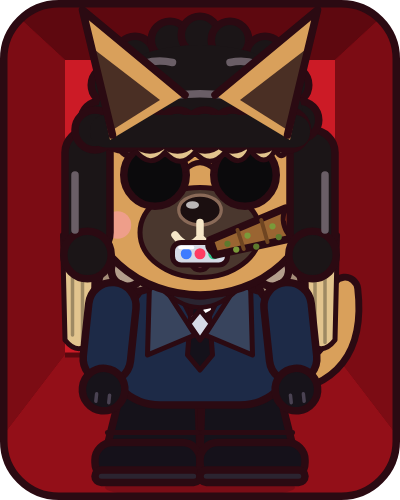
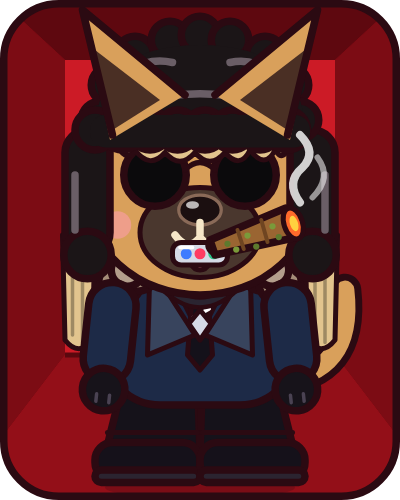
Виджет: крупный пёс и мелкие задачи, загрузчик; косяк поверх шапки

Changed region(s): [[0.69, 0.27, 0.84, 0.48]]

diff --git a/widget/road-to-prime-widget.js b/widget/road-to-prime-widget.js
@@ -1,9 +1,5 @@
-// Road to Prime: виджет для приложения Scriptable (iPhone, бесплатное).
-// Как поставить:
-// 1. В Scriptable нажми «+», вставь весь этот текст, назови скрипт «Road to Prime».
-// 2. Запусти его кнопкой ▶ один раз: он спросит токен GitHub (тот же, что в приложении, право gist).
-// 3. На экране «Домой» долго нажми на пустое место, «+», Scriptable, выбери размер, затем в настройках виджета выбери этот скрипт.
-// Данные читаются из твоего закрытого Gist road-to-prime.json, ничего не записывается.
+// RTP-WIDGET v2: основной код виджета Road to Prime. Его подтягивает загрузчик loader.js.
+// Крупный пёс на фоне, задачи мелким шрифтом. Данные читаются из закрытого Gist road-to-prime.json, ничего не записывается.
 
 const APP_URL = 'https://woicetarget.github.io/road-to-prime/';
 const GIST_FILE = 'road-to-prime.json';
@@ -28,7 +24,7 @@ function summarize(data, now) {
 
 const fm = FileManager.local();
 const cachePath = fm.joinPath(fm.documentsDirectory(), 'rtp_cache.json');
-const dogPath = fm.joinPath(fm.documentsDirectory(), 'rtp_dog.png');
+const dogPath = fm.joinPath(fm.documentsDirectory(), 'rtp_dog_close.png');
 
 async function askToken() {
   const a = new Alert();
@@ -77,7 +73,7 @@ async function getSummary() {
   }
 }
 async function getDog() {
-  try { const img = await new Request(APP_URL + 'dog.png').loadImage(); fm.writeImage(dogPath, img); return img; }
+  try { const img = await new Request(APP_URL + 'dog-close.png').loadImage(); fm.writeImage(dogPath, img); return img; }
   catch (e) { return fm.fileExists(dogPath) ? fm.readImage(dogPath) : null; }
 }
 
@@ -87,47 +83,78 @@ function label(stack, text, size, color, weight) {
   t.textColor = new Color(color || C.ivory);
   return t;
 }
+function plate(parent) {
+  const s = parent.addStack(); s.layoutVertically();
+  s.setPadding(5, 8, 5, 8); s.cornerRadius = 10; s.backgroundColor = new Color(C.bg1, 0.74);
+  return s;
+}
+function taskText(n) { return (n.big ? 'Кабан: ' : n.rat ? 'Крыса: ' : '') + n.title; }
+
 function build(s, dog, family) {
   const w = new ListWidget();
-  const g = new LinearGradient(); g.colors = [new Color(C.bg1), new Color(C.bg2)]; g.locations = [0, 1];
-  w.backgroundGradient = g;
   w.url = APP_URL;
   w.refreshAfterDate = new Date(Date.now() + 15 * 60 * 1000);
-  w.setPadding(14, 14, 12, 14);
-  if (s.error) { label(w, 'ROAD TO PRIME', 10, C.accent, 'bold'); w.addSpacer(8); const t = label(w, s.error, 12, C.ivory); t.lineLimit = 5; return w; }
+  const g = new LinearGradient(); g.colors = [new Color(C.bg1), new Color(C.bg2)]; g.locations = [0, 1];
 
+  if (s.error) {
+    w.backgroundGradient = g; w.setPadding(14, 14, 12, 14);
+    label(w, 'ROAD TO PRIME', 10, C.accent, 'bold'); w.addSpacer(8);
+    label(w, s.error, 11, C.ivory).lineLimit = 5;
+    return w;
+  }
   if (family === 'accessoryRectangular' || family === 'accessoryInline') {
     label(w, 'Road to Prime', 11, C.ivory, 'bold');
     label(w, 'Сегодня ' + s.done + ' из ' + s.total, 13, C.ivory, 'semi');
-    const n = s.next[0]; const t = label(w, n ? n.title : 'Дел нет', 11, C.ivory); t.lineLimit = 1;
+    const n = s.next[0]; label(w, n ? n.title : 'Дел нет', 11, C.ivory).lineLimit = 1;
     return w;
   }
+
   const medium = family === 'medium' || family === 'large';
-  const top = w.addStack(); top.layoutHorizontally(); top.centerAlignContent();
-  const left = top.addStack(); left.layoutVertically();
-  label(left, 'ROAD TO PRIME' + (s.stale ? ' · офлайн' : ''), 9, C.accent, 'bold');
+  if (!medium) {
+    // маленький: пёс на весь фон, сверху счётчик, снизу плашка с делом
+    if (dog) w.backgroundImage = dog; else w.backgroundGradient = g;
+    w.setPadding(8, 8, 8, 8);
+    const row = w.addStack(); row.layoutHorizontally();
+    const chip = row.addStack(); chip.layoutHorizontally(); chip.centerAlignContent();
+    chip.setPadding(3, 8, 3, 8); chip.cornerRadius = 10; chip.backgroundColor = new Color(C.bg1, 0.74);
+    label(chip, s.done + '/' + s.total, 16, C.ivory, 'bold');
+    if (s.stale) label(chip, ' офлайн', 8, C.mute);
+    row.addSpacer();
+    w.addSpacer();
+    const p = plate(w);
+    const n = s.next[0];
+    if (!n) { label(p, 'Дел на сегодня нет', 10, C.ivory, 'semi'); return w; }
+    label(p, 'Дальше', 8, C.accent, 'bold');
+    label(p, taskText(n), 10, C.ivory, 'semi').lineLimit = 2;
+    return w;
+  }
+
+  // средний и большой: слева текст, справа крупный пёс
+  w.backgroundGradient = g;
+  w.setPadding(10, 12, 10, 10);
+  const row = w.addStack(); row.layoutHorizontally(); row.centerAlignContent();
+  const left = row.addStack(); left.layoutVertically();
+  label(left, 'ROAD TO PRIME' + (s.stale ? ' · офлайн' : ''), 8, C.accent, 'bold');
   left.addSpacer(2);
-  const num = label(left, s.done + '/' + s.total, medium ? 34 : 30, C.ivory, 'bold');
-  num.minimumScaleFactor = 0.6;
-  label(left, s.streak ? 'сегодня · серия ' + s.streak + ' ' + plural(s.streak, ['день', 'дня', 'дней']) : 'сегодня', 11, C.mute);
-  top.addSpacer();
-  if (dog) { const im = top.addImage(dog); im.imageSize = new Size(medium ? 64 : 52, medium ? 80 : 65); im.cornerRadius = 10; }
-  w.addSpacer(8);
-  const lines = medium ? s.next.slice(0, 3) : s.next.slice(0, 1);
-  if (!lines.length) { label(w, 'Дел на сегодня нет. Можно выдохнуть.', 12, C.mute).lineLimit = 2; return w; }
-  label(w, 'Дальше', 10, C.accent, 'semi');
-  lines.forEach((n, i) => {
-    const t = label(w, (n.big ? 'Кабан: ' : n.rat ? 'Крыса: ' : '') + n.title, medium ? 13 : 12, C.ivory, i === 0 ? 'semi' : null);
-    t.lineLimit = i === 0 && !medium ? 3 : 1;
-    if (i === 0 && n.step && !medium) { const st = label(w, 'Первый стейк: ' + n.step, 10, C.mute); st.lineLimit = 2; }
+  const head = left.addStack(); head.layoutHorizontally(); head.bottomAlignContent();
+  label(head, s.done + '/' + s.total, 24, C.ivory, 'bold');
+  head.addSpacer(6);
+  label(head, 'сегодня' + (s.streak ? ' · серия ' + s.streak + ' ' + plural(s.streak, ['день', 'дня', 'дней']) : ''), 9, C.mute);
+  left.addSpacer(7);
+  if (!s.next.length) label(left, 'Дел на сегодня нет. Можно выдохнуть.', 10, C.mute).lineLimit = 2;
+  s.next.forEach((n, i) => {
+    const t = label(left, '• ' + taskText(n), i === 0 ? 10.5 : 10, i === 0 ? C.ivory : C.mute, i === 0 ? 'semi' : null);
+    t.lineLimit = i === 0 ? 2 : 1;
+    left.addSpacer(3);
   });
+  row.addSpacer();
+  if (dog) { const im = row.addImage(dog); im.imageSize = new Size(136, 136); im.cornerRadius = 16; }
   return w;
 }
 
 const summary = await getSummary();
 const dog = summary.error ? null : await getDog();
-const family = config.widgetFamily || 'small';
-const widget = build(summary, dog, family);
+const widget = build(summary, dog, config.widgetFamily || 'small');
 if (config.runsInWidget) Script.setWidget(widget);
 else { await widget.presentMedium(); }
 Script.complete();

diff --git a/index.html b/index.html
@@ -778,7 +778,7 @@ const MOUTHS = {
   none: () => '',
   grill: P => R(69, 97, 22, 9, 3.5, P.metal, 'o2') + [74.5, 80, 85.5].map(x => Ln(x, 97, x, 106, INK, 1.2)).join('') + Ln(72, 99.5, 77, 99.5, '#fff', 1.6),
   gems: P => R(69, 97, 22, 9, 3.5, P.metal, 'o2') + [[74.5, '#3D7BFF'], [80, '#FF3D63'], [85.5, '#2BC48A']].map(g => C(g[0], 101.5, 2.2, g[1], 'n')).join('') + Ln(72, 99, 77, 99, '#fff', 1.4),
-  jointGems: P => MOUTHS.gems(P) + MOUTHS.joint(P),
+  jointGems: P => MOUTHS.gems(P),
   joint: () => '<path d="M84 96 L114.1 83.3 L117.9 95.1 L86 102Z" fill="#9A6532" class="o"/>' +
     '<path d="M95 92 L97.5 99.6 M104.5 88 L107 96.8" fill="none" stroke="#6F4521" stroke-width="1.6" stroke-linecap="round"/>' +
     [[91, 97.5, '#5E7A2E'], [99, 94.2, '#7A9A3A'], [102.5, 98.6, '#5E7A2E'], [109, 90.5, '#7A9A3A'], [111.5, 94.8, '#5E7A2E'], [94.5, 99.8, '#7A9A3A']].map(f => '<circle cx="' + f[0] + '" cy="' + f[1] + '" r="1.25" fill="' + f[2] + '"/>').join('') +
@@ -787,6 +787,8 @@ const MOUTHS = {
     '<g class="b-smoke"><path d="M120 81 Q114 73 121 67 Q127 61 120 54" fill="none" stroke="#fff" stroke-width="3.2" stroke-linecap="round" opacity=".8"/><path d="M125 79 Q133 71 127 63" fill="none" stroke="#fff" stroke-width="2.4" stroke-linecap="round" opacity=".55"/></g>',
   lollipop: P => Ln(88, 101, 112, 119, INK, 6.5) + Ln(88, 101, 112, 119, '#fff', 3.4) + C(116, 122, 10.5, P.c2 || '#FF6B87') + '<circle cx="116" cy="122" r="6" fill="none" stroke="#fff" stroke-width="2"/><circle cx="116" cy="122" r="1.8" fill="#fff"/>'
 };
+/* косяк рисуется поверх шапки, иначе клапан ушанки закрывает кончик и дым */
+const MOUTH_FRONT = {jointGems: P => MOUTHS.joint(P)};
 const CHEEKS = {
   none: () => '',
   plaster: () => '<g transform="rotate(-32 50 92)">' + R(39, 88, 22, 8, 3, '#F3D5B5', 'o2') + '</g><g transform="rotate(32 50 92)">' + R(39, 88, 22, 8, 3, '#F3D5B5', 'o2') + '</g>',
@@ -963,6 +965,7 @@ function botSVG(L, cls, uid) {
   /* стоячие уши овчарки: заливка без нижней обводки, чтобы стояли «из головы» */
   s += '<g class="dg-ear dg-ear-l"><path d="M44 56 L33 4 L74 38Z" class="dog n"/><path d="M45 52 L38 20 L64 40Z" fill="#4A2F24" class="n"/><path d="M45 54 L33 4 L74 38" fill="none" class="o"/></g>' +
        '<g class="dg-ear dg-ear-r"><path d="M116 56 L127 4 L86 38Z" class="dog n"/><path d="M115 52 L122 20 L96 40Z" fill="#4A2F24" class="n"/><path d="M115 54 L127 4 L86 38" fill="none" class="o"/></g>';
+  if (MOUTH_FRONT[L.mouth]) s += MOUTH_FRONT[L.mouth](P);
   s += '</g>';
   s += '<g class="b-spark">' + spark(22, 46, 8, '#fff') + spark(140, 34, 6, '#FFD84D') + spark(136, 66, 5, '#fff') + '</g>';
   s += '<g class="b-zs"><text x="128" y="40">z</text><text x="141" y="26">z</text></g>';

diff --git a/widget/loader.js b/widget/loader.js
@@ -1,0 +1,21 @@
+// Road to Prime: загрузчик виджета для Scriptable. Вставь этот текст один раз.
+// Сам виджет подтягивается с твоего сайта на GitHub Pages при каждом запуске,
+// поэтому правки внешнего вида приходят без повторной вставки. Без интернета работает последняя загруженная копия.
+const URL = 'https://woicetarget.github.io/road-to-prime/widget/road-to-prime-widget.js';
+const fm = FileManager.local();
+const cache = fm.joinPath(fm.documentsDirectory(), 'rtp_widget_code.js');
+let code = null;
+try {
+  const fresh = await new Request(URL + '?t=' + Date.now()).loadString();
+  if (fresh && fresh.includes('RTP-WIDGET')) { code = fresh; fm.writeString(cache, fresh); }
+} catch (e) {}
+if (!code && fm.fileExists(cache)) code = fm.readString(cache);
+if (!code) {
+  const w = new ListWidget();
+  w.addText('Road to Prime: нет связи, виджет ещё не загружался');
+  if (config.runsInWidget) Script.setWidget(w); else await w.presentSmall();
+} else {
+  const AsyncFunction = Object.getPrototypeOf(async function () {}).constructor;
+  await new AsyncFunction(code)();
+}
+Script.complete();

diff --git a/README.md b/README.md
@@ -11,4 +11,4 @@
 
 ## Виджет для iPhone
 
-Скрипт `widget/road-to-prime-widget.js` для бесплатного приложения Scriptable показывает «Сегодня 2 из 5», серию дней, следующие дела и Шагыча. Он читает данные из твоего закрытого Gist (тот же токен, что в приложении) и ничего не записывает. Инструкция в начале файла.
+Для бесплатного приложения Scriptable. В Scriptable один раз вставляется короткий загрузчик `widget/loader.js`, а сам виджет `widget/road-to-prime-widget.js` подтягивается отсюда при каждом запуске, так что правки внешнего вида приходят без повторной вставки. Виджет показывает «Сегодня 2 из 5», серию дней, следующие дела и крупного Шагыча. Он читает данные из твоего закрытого Gist (тот же токен, что в приложении) и ничего не записывает.
